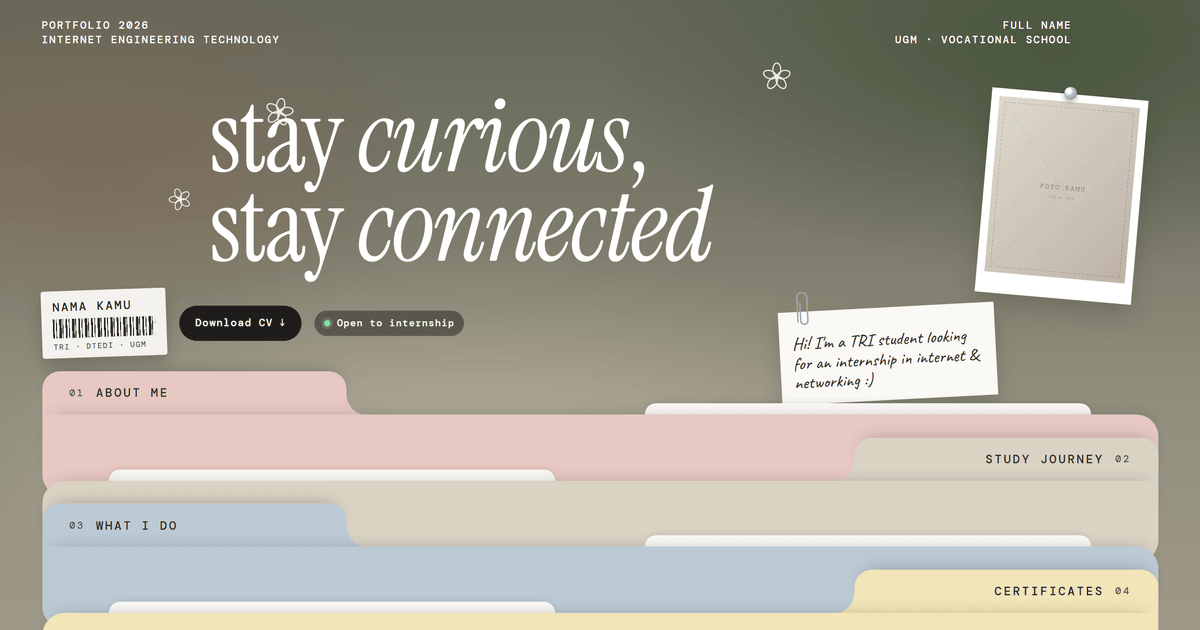
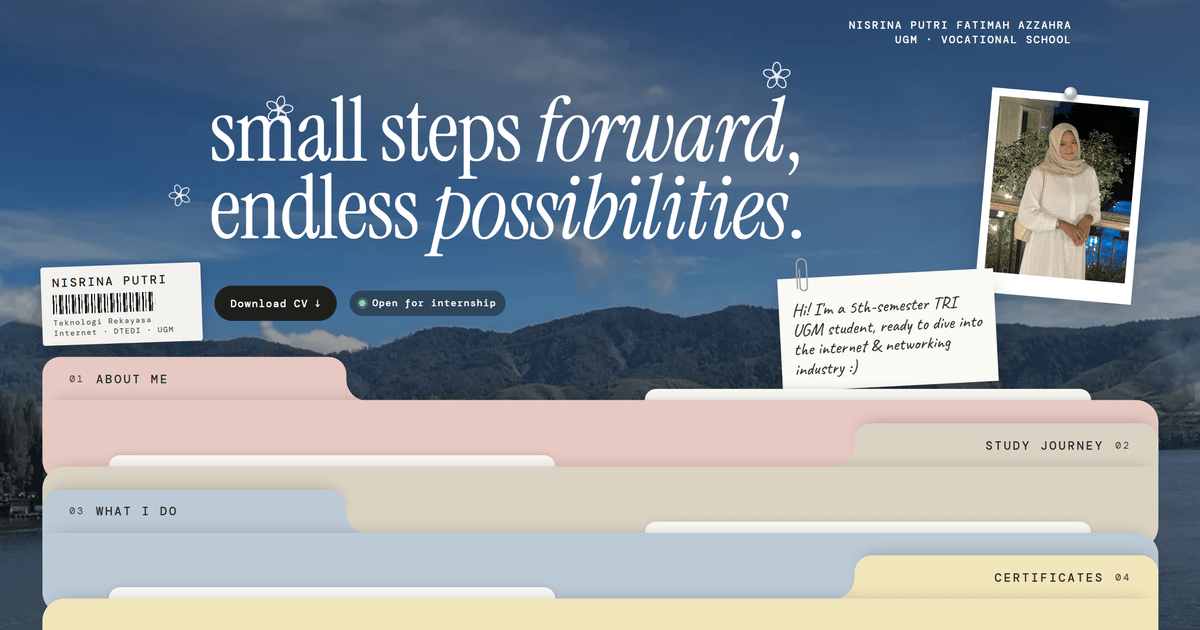
content: fill in Nisrina's profile, photos and first certificate
From bahan/ISI-KONTEN.md: name, contacts, cover tagline and note, portrait
and cover photo, About Me, Study Journey and the BNSP fiber optic training
certificate. What I Do, certificates 2-4, the song and the CV are still
dummy. bahan/ (the owner's raw answers and files) is kept out of git.

diff --git a/src/data/content.ts b/src/data/content.ts
@@ -1,63 +1,67 @@
 // All user-visible content lives here and is validated at build time by schema.ts.
-// Everything below is DUMMY text and placeholder images. Replace it before launch.
+// Filled in from bahan/ISI-KONTEN.md. What is still DUMMY (marked "Teks dummy", "(contoh)",
+// example.com and the placeholder images) waits for the owner's answers; a Cloudflare build refuses
+// to run until none is left (src/data/deploy-guard.ts).
 // `*word*` renders as emphasis, `\n` as a line break (see src/lib/rich.ts).
-import portrait from '../assets/placeholders/portrait.jpg';
+import portrait from '../assets/foto/nisrina-potret.jpg';
+import coverPhoto from '../assets/foto/latar-cover.jpg';
+import certFiberOptik from '../assets/sertifikat/fiber-optik-bnsp.png';
 import work1 from '../assets/placeholders/work-1.jpg';
 import work1Extra1 from '../assets/placeholders/work-1-extra-1.jpg';
 import work1Extra2 from '../assets/placeholders/work-1-extra-2.jpg';
 import work2 from '../assets/placeholders/work-2.jpg';
 import work3 from '../assets/placeholders/work-3.jpg';
 import work4 from '../assets/placeholders/work-4.jpg';
-import cert1 from '../assets/placeholders/cert-1.jpg';
 import cert2 from '../assets/placeholders/cert-2.jpg';
 import cert3 from '../assets/placeholders/cert-3.jpg';
 import cert4 from '../assets/placeholders/cert-4.jpg';
 import { parseContent, type SiteContent } from './schema';
 
+const portraitAlt = {
+  en: 'Portrait of Nisrina Putri in a white dress and a beige hijab',
+  id: 'Potret Nisrina Putri mengenakan gamis putih dan hijab krem',
+};
+
 export const content: SiteContent = parseContent({
   site: {
-    name: 'NAMA KAMU',
-    stickerSub: 'TRI · DTEDI · UGM',
+    name: 'NISRINA PUTRI',
+    stickerSub: 'Teknologi Rekayasa Internet · DTEDI · UGM',
     title: {
-      en: 'Your Name · Internet Engineering Portfolio',
-      id: 'Nama Kamu · Portofolio Teknologi Rekayasa Internet',
+      en: 'Nisrina Putri · Internet Engineering Technology Portfolio',
+      id: 'Nisrina Putri · Portofolio Teknologi Rekayasa Internet',
     },
     description: {
-      en: 'Portfolio of an Internet Engineering Technology student at UGM, open to internships in internet and networking.',
-      id: 'Portofolio mahasiswa Teknologi Rekayasa Internet UGM yang terbuka untuk magang di bidang internet dan jaringan.',
-    },
-    cornerLeft: {
-      en: 'PORTFOLIO 2026\nINTERNET ENGINEERING TECHNOLOGY',
-      id: 'PORTFOLIO 2026\nTEKNOLOGI REKAYASA INTERNET',
+      en: 'Portfolio of Nisrina Putri, an Internet Engineering Technology student at UGM, open to internships in internet and networking.',
+      id: 'Portofolio Nisrina Putri, mahasiswi Teknologi Rekayasa Internet UGM yang terbuka untuk magang di bidang internet dan jaringan.',
     },
     cornerRight: {
-      en: 'FULL NAME\nUGM · VOCATIONAL SCHOOL',
-      id: 'NAMA LENGKAP\nUGM · SEKOLAH VOKASI',
+      en: 'NISRINA PUTRI FATIMAH AZZAHRA\nUGM · VOCATIONAL SCHOOL',
+      id: 'NISRINA PUTRI FATIMAH AZZAHRA\nUGM · SEKOLAH VOKASI',
     },
+    // Written in English by the owner; kept in English in both languages, like the reference design.
     tagline: {
-      en: 'stay *curious*,\nstay *connected*',
-      id: 'tetap *penasaran*,\ntetap *terhubung*',
+      en: 'small steps *forward*,\nendless *possibilities*.',
+      id: 'small steps *forward*,\nendless *possibilities*.',
     },
     note: {
-      en: "Hi! I'm a TRI student looking for an internship in internet & networking :)",
-      id: 'Hai! Aku mahasiswa TRI yang lagi cari tempat magang di bidang internet & jaringan :)',
+      en: "Hi! I'm a 5th-semester TRI UGM student, ready to dive into the internet & networking industry :)",
+      id: 'Hai! Aku mahasiswi TRI UGM semester 5 yang siap terjun ke industri internet & jaringan :)',
     },
-    status: { en: 'Open to internship', id: 'Terbuka untuk magang' },
+    status: { en: 'Open for internship', id: 'Terbuka untuk magang' },
     thanks: {
       en: "Thanks for stopping by! I'm open to internship opportunities in internet & networking.",
       id: 'Terima kasih sudah mampir! Aku terbuka untuk kesempatan magang di bidang internet & jaringan.',
     },
     portrait,
-    portraitAlt: {
-      en: 'Placeholder portrait of the site owner',
-      id: 'Foto potret pemilik situs (contoh)',
-    },
+    portraitAlt,
+    coverPhoto,
     cv: { en: '/cv/cv-en.pdf', id: '/cv/cv-id.pdf' },
     links: {
-      email: 'nama@example.com',
-      linkedin: 'https://www.linkedin.com/in/namakamu',
-      github: 'https://github.com/namakamu',
-      whatsapp: '6281234567890',
+      email: 'nisrinaputri2912@gmail.com',
+      linkedin: 'https://www.linkedin.com/in/nisrinaputri2912',
+      github: 'https://github.com/nsrputri',
+      whatsapp: '6287818126030',
+      instagram: 'https://www.instagram.com/nsrputrii/',
     },
   },
 
@@ -83,18 +87,15 @@ export const content: SiteContent = parseContent({
   about: {
     kicker: { en: '// about me', id: '// tentang aku' },
     heading: {
-      en: "I'm *Your Name*, an Internet Engineering Technology student who loves tinkering with networks.",
-      id: 'Aku *Nama Kamu*, mahasiswa Teknologi Rekayasa Internet yang senang ngulik jaringan.',
+      en: "I'm *Nisrina Putri*, an Internet Engineering Technology student with a strong drive to dig deep into network infrastructure and technology.",
+      id: 'Aku *Nisrina Putri*, mahasiswi Teknologi Rekayasa Internet dengan minat tinggi untuk mendalami bidang infrastruktur jaringan dan teknologi.',
     },
     intro: {
-      en: 'Dummy text. Briefly tell who you are, why you are drawn to networking and the internet, and what kind of internship you are looking for.',
-      id: 'Teks dummy. Ceritakan singkat siapa kamu, kenapa tertarik ke dunia jaringan dan internet, dan magang seperti apa yang sedang kamu cari.',
+      en: "Hello! I'm Nisrina Putri, an Internet Engineering Technology student at UGM with a keen interest in network architecture. To me, networking is fascinating because it is the foundation that connects the entire digital ecosystem. Driven by a strong curiosity, I'm always eager to broaden my technical knowledge through study and collaboration in the technology industry.",
+      id: 'Halo! Saya Nisrina Putri, mahasiswi Teknologi Rekayasa Internet UGM yang punya ketertarikan pada arsitektur jaringan. Bagi saya, dunia jaringan sangat memikat karena merupakan fondasi yang menghubungkan seluruh ekosistem digital. Terdorong oleh rasa ingin tahu yang besar, saya selalu bersemangat memperluas wawasan teknis melalui studi dan kolaborasi di bidang industri teknologi.',
     },
     photo: portrait,
-    photoAlt: {
-      en: 'Placeholder photo of the site owner',
-      id: 'Foto pemilik situs (contoh)',
-    },
+    photoAlt: portraitAlt,
     caption: { en: "hi, it's me!", id: 'hai, ini aku!' },
     facts: [
       {
@@ -106,65 +107,67 @@ export const content: SiteContent = parseContent({
         value: { en: 'TRI · DTEDI', id: 'TRI · DTEDI' },
       },
       {
+        label: { en: 'Class of', id: 'Angkatan' },
+        value: { en: '2024', id: '2024' },
+      },
+      {
         label: { en: 'Semester', id: 'Semester' },
         value: { en: '5', id: '5' },
+      },
+      {
+        label: { en: 'GPA', id: 'IPK' },
+        value: { en: '3.82', id: '3,82' },
       },
       {
         label: { en: 'Based in', id: 'Domisili' },
         value: { en: 'Yogyakarta', id: 'Yogyakarta' },
       },
     ],
-    skills: ['Mikrotik', 'Cisco Packet Tracer', 'Fiber Optic', 'Linux Server', 'HTML & CSS'],
+    skills: ['Mikrotik', 'Cisco Packet Tracer', 'Wireshark', 'Linux', 'Ubuntu'],
     song: 'Judul Lagu Favorit',
   },
 
+  // The owner's list, newest first. Steps without a date wait for one (when is optional).
   study: {
     kicker: { en: '// study journey', id: '// perjalanan kuliah' },
-    heading: {
-      en: 'From *“what is an IP address?”* to building my own network.',
-      id: 'Dari *“apa itu IP address?”* sampai merakit jaringan sendiri.',
-    },
     items: [
       {
-        when: { en: '2023 · Sem 1', id: '2023 · Sem 1' },
-        title: { en: 'Started at TRI UGM', id: 'Masuk TRI UGM' },
-        text: {
-          en: 'Got to know the basics of computer networks and programming.',
-          id: 'Kenalan dengan dasar jaringan komputer dan pemrograman.',
+        when: { en: '2024 — Present', id: '2024 — Sekarang' },
+        title: {
+          en: 'Diploma IV, Internet Engineering Technology',
+          id: 'Diploma IV, Teknologi Rekayasa Internet',
         },
-      },
-      {
-        when: { en: '2024 · Sem 2', id: '2024 · Sem 2' },
-        title: { en: 'First router', id: 'Router pertama' },
-        text: {
-          en: 'Learned subnetting and Mikrotik configuration.',
-          id: 'Belajar subnetting dan konfigurasi Mikrotik.',
-        },
-      },
-      {
-        when: { en: '2024 · Sem 3', id: '2024 · Sem 3' },
-        title: { en: 'Fiber optic practicum', id: 'Praktikum fiber optik' },
-        text: {
-          en: 'Splicing, OTDR testing and FTTH installation.',
-          id: 'Splicing, uji OTDR, dan instalasi FTTH.',
-        },
-      },
-      {
-        when: { en: '2025 · Sem 4', id: '2025 · Sem 4' },
-        title: { en: 'IoT project', id: 'Proyek IoT' },
-        text: {
-          en: 'Sensors and a simple monitoring dashboard.',
-          id: 'Sensor dan dashboard monitoring sederhana.',
-        },
-      },
-      {
-        when: { en: '2025 · Sem 5', id: '2025 · Sem 5' },
-        title: { en: 'Now', id: 'Sekarang' },
-        text: {
-          en: 'Looking for an internship in internet & networking.',
-          id: 'Mencari magang di bidang internet & jaringan.',
-        },
+        text: { en: 'Universitas Gadjah Mada', id: 'Universitas Gadjah Mada' },
         current: true,
+      },
+      {
+        when: { en: 'Oct 2024 — Present', id: 'Okt 2024 — Sekarang' },
+        title: { en: 'Public Relations Division', id: 'Divisi Humas' },
+        text: { en: 'Forkom TRI SV UGM', id: 'Forkom TRI SV UGM' },
+        current: true,
+      },
+      {
+        title: { en: 'Database Practicum Assistant', id: 'Asisten Praktikum Basis Data' },
+        text: { en: 'DTEDI SV UGM', id: 'DTEDI SV UGM' },
+      },
+      {
+        title: {
+          en: 'Equipment Sub-coordinator, Catering Division',
+          id: 'Sub Koordinator Perlengkapan, Divisi Konsum',
+        },
+        text: { en: 'NetComp 4.0', id: 'NetComp 4.0' },
+      },
+      {
+        title: {
+          en: 'Equipment Staff, Catering Division',
+          id: 'Anggota Perlengkapan, Divisi Konsum',
+        },
+        text: { en: 'NetComp 3.0', id: 'NetComp 3.0' },
+      },
+      {
+        when: { en: '2021 — 2024', id: '2021 — 2024' },
+        title: { en: 'SMA Negeri 5 Yogyakarta', id: 'SMA Negeri 5 Yogyakarta' },
+        text: { en: 'Senior high school', id: 'Sekolah menengah atas' },
       },
     ],
   },
@@ -260,12 +263,14 @@ export const content: SiteContent = parseContent({
   certificates: {
     items: [
       {
-        title: 'MTCNA',
-        issuer: 'MikroTik',
-        year: 2024,
-        image: cert1,
-        alt: { en: 'Placeholder scan of the MTCNA certificate', id: 'Pindaian sertifikat MTCNA (contoh)' },
-        credentialUrl: 'https://example.com/credentials/mtcna',
+        title: 'Training Fiber Optik Bersertifikasi BNSP',
+        issuer: 'LPK Pasopati',
+        year: 2026,
+        image: certFiberOptik,
+        alt: {
+          en: 'Certificate from LPK Pasopati for the BNSP-certified Fiber Optic Training, 11–13 March 2026, awarded to Nisrina Putri Fatimah Azzahra',
+          id: 'Sertifikat LPK Pasopati untuk Training Fiber Optik Bersertifikasi BNSP, 11–13 Maret 2026, atas nama Nisrina Putri Fatimah Azzahra',
+        },
       },
       {
         title: 'CCNA: Introduction to Networks',
